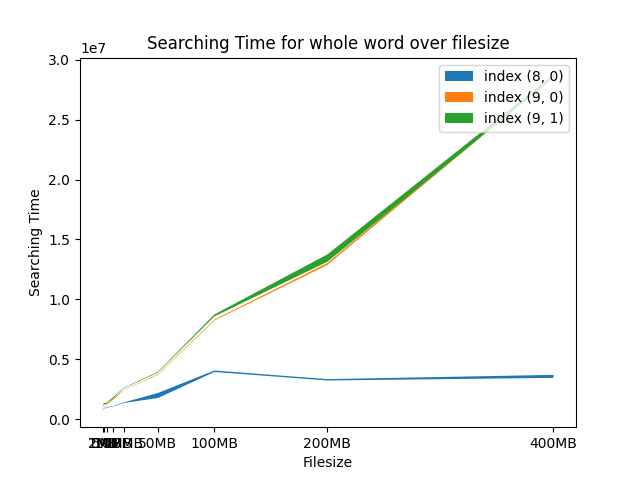
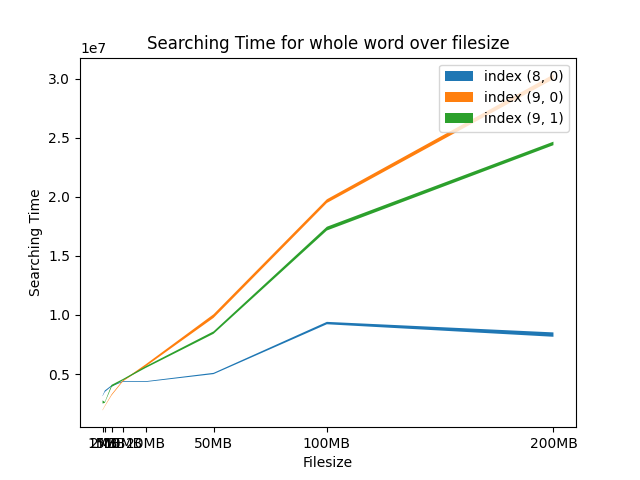
Nice prefix plots <3

diff --git a/rustsearch/benches/my_benchmark.rs b/rustsearch/benches/my_benchmark.rs
@@ -8,7 +8,7 @@ use std::fs;
 
 use rustsearch::helpers::{read_file_to_string, Config};
 use rustsearch::index::{
-    self,
+    
     gen_query::{gen_a_lot_of_runs_bool, gen_a_lot_of_runs_tries},
 };
 
@@ -113,7 +113,7 @@ pub fn bool_searching_template(c: &mut Criterion, i_string: &str) {
     for dir in files.unwrap() {
         let file_path = dir.unwrap().path().into_os_string().into_string().unwrap();
         let filesize = &file_path[46..file_path.len() - 4];
-
+  
         let ast_vec: Vec<Vec<String>> = gen_a_lot_of_runs_bool(file_path.clone(), 1000);
 
         let config = Config {
@@ -182,8 +182,23 @@ pub fn prefix_search_template(c: &mut Criterion, i_string: &str, prefix_bool: bo
         true => "prefix search 9_0 in file",
     };
 
+    let search_type = match i_string {
+        "8_0" => SearchType::BooleanSearch("Naive".to_string()),
+        _ => SearchType::PrefixSearch
+    };
+
     for dir in files.unwrap() {
+
+        if dir.as_ref().unwrap().path().is_dir() {
+            continue;
+        }
+
         let file_path = dir.unwrap().path().into_os_string().into_string().unwrap();
+
+        if &file_path[0..9] != "data/West" {
+            continue;
+        }
+        
         let filesize = file_path
             .rsplit_once('_')
             .unwrap()
@@ -193,7 +208,7 @@ pub fn prefix_search_template(c: &mut Criterion, i_string: &str, prefix_bool: bo
             .0;
 
         let word_vec = gen_a_lot_of_runs_tries(file_path.clone(), 1000, prefix_bool);
-
+    
         let config = Config {
             file_path: file_path.to_owned(),
             indexno: i_string.to_string(),
@@ -207,7 +222,7 @@ pub fn prefix_search_template(c: &mut Criterion, i_string: &str, prefix_bool: bo
                     for word in &word_vec {
                         let query = Query {
                             search_string: word.to_owned(),
-                            search_type: index::SearchType::PrefixSearch,
+                            search_type: search_type.to_owned(),
                         };
                         index.search(&query);
                     }
@@ -215,6 +230,10 @@ pub fn prefix_search_template(c: &mut Criterion, i_string: &str, prefix_bool: bo
             },
         );
     }
+}
+
+pub fn find_word_8_0(c: &mut Criterion) {
+    prefix_search_template(c, "8_0", false)
 }
 
 pub fn find_word_9_0(c: &mut Criterion) {
@@ -368,8 +387,8 @@ pub fn kmp_vs_boyer_moore(c: &mut Criterion) {
 //criterion_group!(benches,indexing_7,indexing_8_0,indexing_9_1,indexing_9_0,searching_index_7_0,searching_index_8_0,searching_index_8_1,searching_index_8_2,searching_index_8_3,searching_index_8_4,find_word_9_0,find_word_9_1,prefix_search_index_9_0,prefix_search_index_9_1);
 criterion_group!(
     name = benches;
-    config = Criterion::default().sample_size(10);
-    targets = full_text_search_10_0,full_text_search_10_1,full_text_search_10_2,full_text_search_11_1,full_text_search_11_0
+    config = Criterion::default().sample_size(100);
+    targets = indexing_9_1,indexing_9_0
 );
 
 criterion_main!(benches);

diff --git a/rustsearch/Plotting/SearchTimes.py b/rustsearch/Plotting/SearchTimes.py
@@ -180,20 +180,21 @@ def plot_filesize(data, indexes):
 
 def plot_find_word(data, indexes):
     
+    x = [1, 2, 5, 10, 20, 50, 100, 200]
+
     for index in indexes:
             mean = np.array([])
             upper_bound = np.array([])
             lower_bound = np.array([])
             
-            for filesize in sorted(data.keys()):
+            for filesize in x:
                 mean = np.append(mean,data[filesize][f"Find{index}"]["mean"])
                 upper_bound = np.append(upper_bound,data[filesize][f"Find{index}"]["upper_bound"])
                 lower_bound = np.append(lower_bound,data[filesize][f"Find{index}"]["lower_bound"])
 
-            x = [1, 2, 5, 10, 20, 50, 100, 200, 400]
             plt.fill_between(x,lower_bound,upper_bound,label = f"index {index}")
                     
-    plt.xticks([1, 2, 5, 10, 20, 50, 100, 200, 400],["1MB", "2MB", "5MB", "10MB", "20MB", "50MB", "100MB", "200MB","400MB"])
+    plt.xticks([1, 2, 5, 10, 20, 50, 100, 200],["1MB", "2MB", "5MB", "10MB", "20MB", "50MB", "100MB", "200MB"])
     plt.title(f"Searching Time for whole word over filesize")
     plt.xlabel("Filesize")
     plt.ylabel("Searching Time")
@@ -313,6 +314,7 @@ def plot_fullsearch_long(data,indexes):
 
 booleanIndexes = [(7,0),(8,0),(8,1),(8,2),(8,3),(8,4)]
 
+#plot_indexing(data,[(7,0),(8,0)])
 #plot_indexing(data,[(7,0),(8,0),(9,0),(9,1)])
 #plot_indexing(data,[(7,0),(8,0),(9,0),(9,1),(10,0),(11,0)])
 #plot_depth(data,booleanIndexes)
@@ -321,8 +323,8 @@ booleanIndexes = [(7,0),(8,0),(8,1),(8,2),(8,3),(8,4)]
 #plot_depth_filesize(data,booleanIndexes)
 #plot_prefixsearch(data,[(9,0),(9,1)])
 #plot_fullsearch(data,[(11,0),(11,1)])         
-plot_fullsearch(data,[(10,0),(10,1),(10,2)])         
-plot_fullsearch_long(data,[(10,0),(10,1),(10,2)])
-plot_fullsearch_long(data,[(11,0),(11,1)])
+#plot_fullsearch(data,[(10,0),(10,1),(10,2)])         
+#plot_fullsearch_long(data,[(10,0),(10,1),(10,2)])
+#plot_fullsearch_long(data,[(11,0),(11,1)])
 
 

diff --git a/rustsearch/src/helpers.rs b/rustsearch/src/helpers.rs
@@ -29,6 +29,7 @@ impl Config {
             "7" => Ok(Box::new(Index::index7(&self)?)),
             "7_0" => Ok(Box::new(Index::index7(&self)?)),
             "8" => Ok(Box::new(Index::index8(&self)?)),
+            "8_0" => Ok(Box::new(Index::index8(&self)?)),
             "9_0" => Ok(Box::new(Index::index9_0(&self)?)),
             "9_1" => Ok(Box::new(Index::index9_1(&self)?)),
             "10" => Ok(Box::new(Index::index10(&self)?)),

diff --git a/rustsearch/src/index/index8_0.rs b/rustsearch/src/index/index8_0.rs
@@ -15,7 +15,7 @@ impl Index<HashMap<String, Vec<usize>>> {
         let mut article_titles: Vec<String> = Vec::new();
 
         for (title, contents) in articles_iter {
-            dbg!(&title);
+            //dbg!(&title);
             if title != "" {
                 article_titles.push(title.to_string());
                 for word in contents {

diff --git a/rustsearch/src/index/index9_1.rs b/rustsearch/src/index/index9_1.rs
@@ -237,7 +237,6 @@ mod tests {
     }
 
     fn search_match(index: &Index<Trie>, query: &str, titles: Vec<&str>) {
-        dbg!(&query.to_string());
         let index_result: HashSet<String> =
             HashSet::from_iter(index.prefix_search(&query.to_string()));
         assert_eq!(
